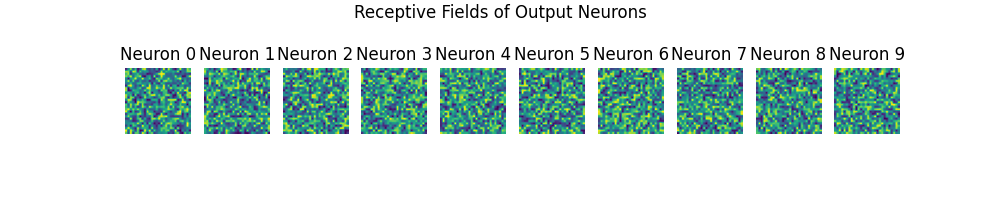
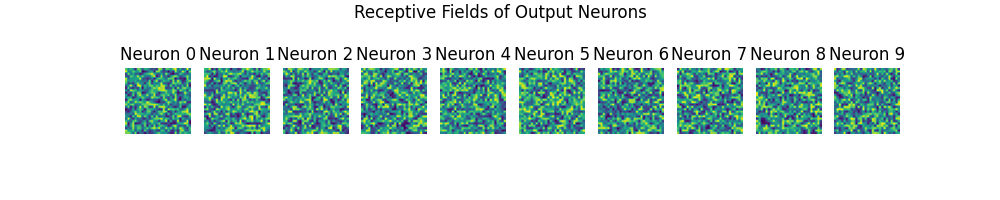
ITS ALIVE! So I turned off WTA for now to see if the neuron's end up learning, and they do, so it looks like the issue is still WTA, need to do some more debugging. Have some theories in the slack

Changed region(s): [[0.124, 0.33, 0.899, 0.69]]

diff --git a/test.py b/test.py
@@ -15,7 +15,7 @@ from model import *
 # Get an image from the convolved dataset, and then print it out as a sanity check
 # Pass it into the model and then print out the spike and memory (need to check formatting)
 
-model = Net(num_input=28*28, num_output=10, beta=0.9, threshold=1, reset_mechanism="zero")
+model = Net(num_input=28*28, num_output=2, beta=0.9, threshold=20, reset_mechanism="zero")
 
 data = torch.load("test_sample.pt", weights_only="True")
 img, label = data
@@ -27,48 +27,83 @@ img, label = data
 
 # Create the debugging run 
 
+save_img = img 
 print(f"Image shape (should be C:1 x H:28 x W:28): {img.shape}")
 img = torch.flatten(img, start_dim=1)
 print(f"Flattened image shape (should be C:1 x P:784): {img.shape}")
 img = spikegen.latency(data=img, num_steps=255, normalize=True, linear=True)
 print(f"Spike image shape (should be T:255 x C:1 x P:784): {img.shape}")
 
+trace_pre = None
+trace_post = None
 
+iter_counter = 0
 
-for step in range(1):
+for step in range(200):
 
     # Get spike and membrane recordings
     spk_rec, mem_rec = model(img)
 
+    print(spk_rec.max().item())
+    print(mem_rec.max().item())
+    # print(spk_rec[254])
+
     print(f"spk_rec shape: {spk_rec.shape}")
     print(f"mem_rec shape: {mem_rec.shape}")
 
-    # Iterate over neurons (assuming 10 neurons in output layer)
-    # for neuron_idx in range(10):  # For each of the 10 neurons
+    trace_pre, trace_post, delta_w = stdp_linear_single_step(
+        fc = model.fc1,
+        in_spike = img.squeeze(1),
+        out_spike = spk_rec.squeeze(1),
+        trace_pre=trace_pre,
+        trace_post=trace_post,
+        tau_pre = 5,
+        tau_post = 5,
+        f_pre = lambda x: 5e-3 * x**0.65,
+        f_post = lambda x: 3.75e-3 * x**0.05, 
+    )
 
-    #     # Get the spike train for the current neuron across all time steps
-    #     neuron_spk = spk_rec[:, 0, neuron_idx]
-    #     print(f"Spike train of neuron {neuron_idx} across all time steps: {neuron_spk.shape}")
-    #     print(f"Max: {torch.max(neuron_spk)}")
-    #     print(f"Min: {torch.min(neuron_spk)}")
-
-    #     # Now we check if this neuron spikes at the same time as any other neuron
-    #     for other_neuron_idx in range(neuron_idx + 1, 10):  # Compare with neurons after it to avoid redundant checks
-    #         other_neuron_spk = spk_rec[:, 0, other_neuron_idx]
-
-    #         # Check if there are time steps where both neurons spike
-    #         # common_spikes = torch.logical_and(neuron_spk, other_neuron_spk)
-
-    #         main_max = torch.max(neuron_spk)
-    #         sec_max = torch.max(other_neuron_spk)
-             
-    #         if main_max == sec_max:
-    #             print(f"ERROR: Neurons {neuron_idx} and {other_neuron_idx} fired at the same time!")
-    #             break
-
-    #         # if torch.any(common_spikes):
-    #         #     print(f"ERROR: Neurons {neuron_idx} and {other_neuron_idx} fired at the same time!")
-    #         #     print(f"Time steps: {torch.nonzero(common_spikes).squeeze()}")
-    #         #     break
+    with torch.no_grad():
+        model.fc1.weight += delta_w
         
-    
+    print(f"Membrane potential min: {mem_rec.min().item()}, max: {mem_rec.max().item()}")
+    print(f"Min Δw: {delta_w.min().item()}, Max Δw: {delta_w.max().item()}")
+
+    # weights = model.fc1.weight.data.cpu().numpy()
+    # plt.imshow(weights[0].reshape(28, 28), cmap="viridis")
+    # plt.title("Updated Weights for Neuron 0")
+    # plt.axis("off")
+    # plt.show()
+
+
+    iter_counter += 1
+    print(f"Image: {iter_counter}")
+
+weights = model.fc1.weight.data.cpu().numpy()
+
+num_output_neurons = weights.shape[0]
+
+rows = int(np.ceil(num_output_neurons / 10))  
+cols = min(10, num_output_neurons)  
+
+fig, axes = plt.subplots(rows, cols, figsize=(10, rows * 2))
+
+for i, ax in enumerate(axes.flat):
+    if i < num_output_neurons:
+        img = weights[i].reshape(28, 28)
+        ax.imshow(img, cmap="gray") 
+        ax.set_title(f"Neuron {i}")
+        ax.axis("off") 
+    else:
+        ax.axis("off") 
+
+# Title for the entire plot
+plt.suptitle("Receptive Fields of Output Neurons")
+plt.tight_layout()
+plt.show()
+
+save_img = save_img.squeeze(0) 
+plt.imshow(save_img, cmap="gray") 
+plt.title(f"Label: {label}")  
+plt.axis("off")  
+plt.show()

diff --git a/model.py b/model.py
@@ -27,37 +27,44 @@ class Net(nn.Module):
             # print(f"Shape of x: {x[step].shape}")
             cur = self.fc1(x[step]) 
             spk, mem = self.lif(cur, mem)
+
+            spk_rec.append(spk)
+            mem_rec.append(mem)
+            
             # print(spk)
             # print(mem)
 
-            d = [(f"{mem[0, l].item():.1f}", spk[0, l].item()) for l in range(mem.shape[1])]
+            # d = [(f"{mem[0, l].item():.1f}", spk[0, l].item()) for l in range(mem.shape[1])]
             # print(f"{d}{step}")
 
 
             # if torch.any(spk):
             #     print(f"SPIKE DETECTED AT {step}")
                 
-            if torch.any(spk):
-                neurons_that_spiked = [i for i, val in enumerate(spk[0].tolist()) if val == 1]
-                # print(neurons_that_spiked)
-                random_neuron = neurons_that_spiked[torch.randint(0, len(neurons_that_spiked), (1,)).item()]
-                # print(random_neuron)
+            # if torch.any(spk):
+            #     neurons_that_spiked = [i for i, val in enumerate(spk[0].tolist()) if val == 1]
+            #     # print(neurons_that_spiked)
+            #     random_neuron = neurons_that_spiked[torch.randint(0, len(neurons_that_spiked), (1,)).item()]
+            #     # print(random_neuron)
 
-                spk = torch.zeros_like(spk)
-                mem = torch.zeros_like(mem)
+            #     spk = torch.zeros_like(spk)
+            #     mem = torch.zeros_like(mem)
 
-                spk[0, random_neuron] = 1
+            #     spk[0, random_neuron] = 1
 
-                # print(spk[0].tolist())
-                # print(mem[0].tolist())
+            #     spk_rec.append(spk)
+            #     mem_rec.append(mem)
 
-                spk_rec.append(spk)
-                mem_rec.append(mem)
+            #     # print(f"Shape of spk_rec: {len(spk_rec)}")
 
-                while len(spk_rec) < 255:
-                    spk_rec.append(torch.zeros((1, 10)))
-                    mem_rec.append(torch.zeros((1, 10)))
+            #     while len(spk_rec) < 255:
+            #         spk_rec.append(torch.zeros((1, spk.shape[1]
+            #                                     )))
+            #         mem_rec.append(torch.zeros((1, spk.shape[1])))
 
-                break
+            #     break
                 
+            # spk_rec.append(spk)
+            # mem_rec.append(mem)
+
         return torch.stack(spk_rec), torch.stack(mem_rec)

diff --git a/main.py b/main.py
@@ -43,11 +43,11 @@ num_output = 10
 # Spiking Dynamics 
 
 beta = .9
-threshold = 20
+threshold = 1
 reset_mechanism = "zero"
 
-tau_pre = 5
-tau_post = 5
+tau_pre = 20
+tau_post = 20
 
 f_pre = 5e-3
 f_post = 3.75e-3
@@ -93,6 +93,9 @@ for epoch in range(num_epochs):
         
         with torch.no_grad():
             net.fc1.weight += delta_w
+
+        print(f"Min Δw: {delta_w.min().item()}, Max Δw: {delta_w.max().item()}")
+
 
         # print(f"Shape of spk_rec: {spk_rec.shape}")
         # print(f"Shape of mem_rec: {mem_rec.shape}")
